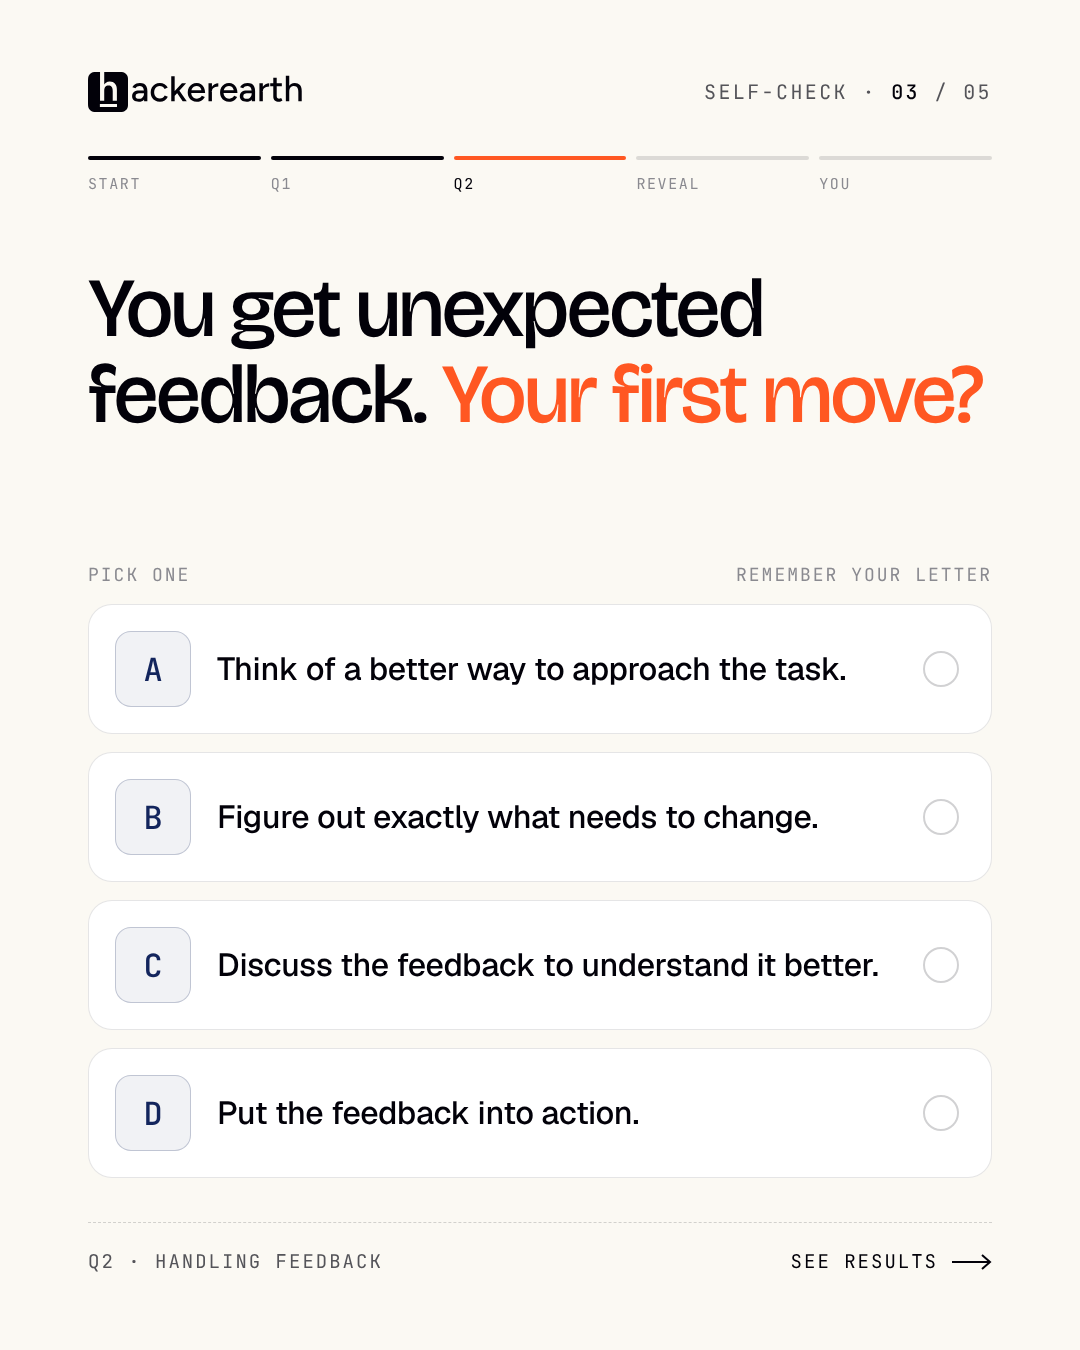
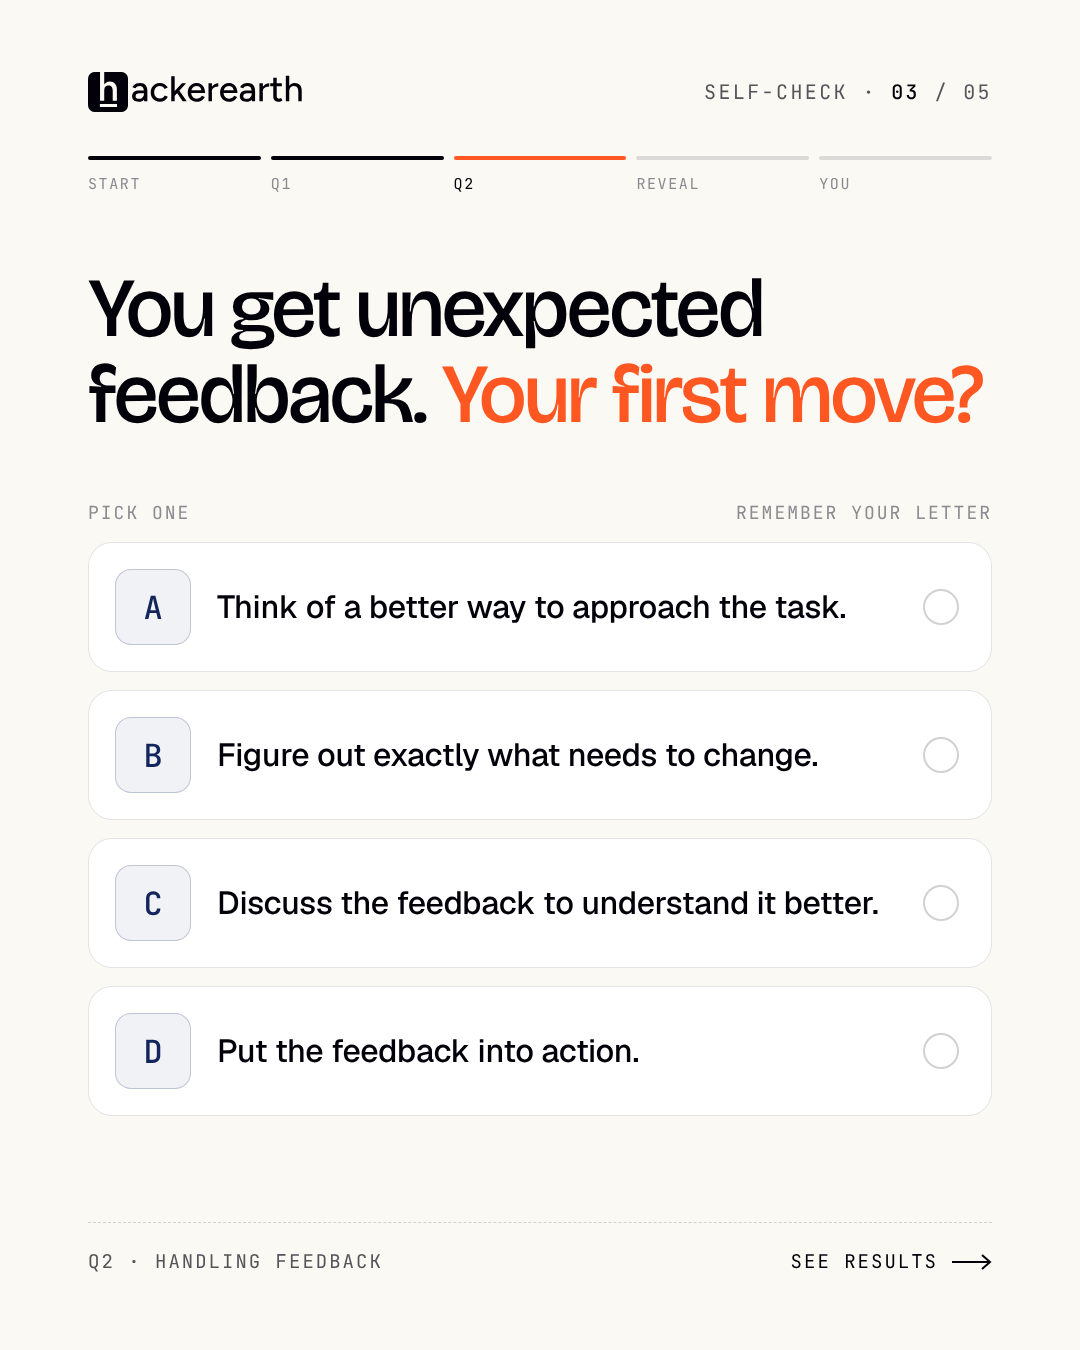
Carousel: move answer boxes and CTA card up
Claude-Session: https://claude.ai/code/session_011WvSfd7jShGBWHTo2t24v1

diff --git a/instagram-carousels/set-2-60-second-self-check/carousel.html b/instagram-carousels/set-2-60-second-self-check/carousel.html
@@ -87,7 +87,7 @@
   .body h2 { margin-top: 72px; }
 
   /* ===== Answer options (quiz cards) ===== */
-  .answers-head { display: flex; justify-content: space-between; align-items: baseline; margin-top: auto; padding-bottom: 18px; font-family: var(--mono); font-size: 18px; letter-spacing: 2px; text-transform: uppercase; color: var(--text-faint); }
+  .answers-head { display: flex; justify-content: space-between; align-items: baseline; margin-top: 64px; padding-bottom: 18px; font-family: var(--mono); font-size: 18px; letter-spacing: 2px; text-transform: uppercase; color: var(--text-faint); }
   .answers { display: flex; flex-direction: column; gap: 18px; }
   .option {
     display: grid; grid-template-columns: 76px 1fr 36px; align-items: center; gap: 26px;
@@ -157,7 +157,7 @@
   .s5 .ask { margin-top: 40px; font-size: 34px; line-height: 1.35; color: var(--text-muted); }
   .chips { display: flex; gap: 16px; margin-top: 28px; }
   .chip { width: 96px; height: 80px; border-radius: 18px; display: grid; place-items: center; font-family: var(--mono); font-weight: 500; font-size: 34px; color: var(--accent); background: var(--bg-card); border: 1.5px solid color-mix(in srgb, var(--accent) 22%, transparent); }
-  .promo { margin-top: auto; background: var(--accent); color: #fff; border-radius: 24px; padding: 48px 44px 44px; }
+  .promo { margin-top: 56px; background: var(--accent); color: #fff; border-radius: 24px; padding: 48px 44px 44px; }
   .promo h3 { font-family: var(--display); font-weight: 500; font-size: 48px; line-height: 1.08; letter-spacing: -1.2px; }
   .promo .btn-cta { margin-top: 36px; width: 100%; justify-content: space-between; }
   .promo .with { margin-top: 28px; display: flex; align-items: center; gap: 16px; font-family: var(--mono); font-size: 18px; letter-spacing: 2px; text-transform: uppercase; color: rgba(255,255,255,0.6); }
